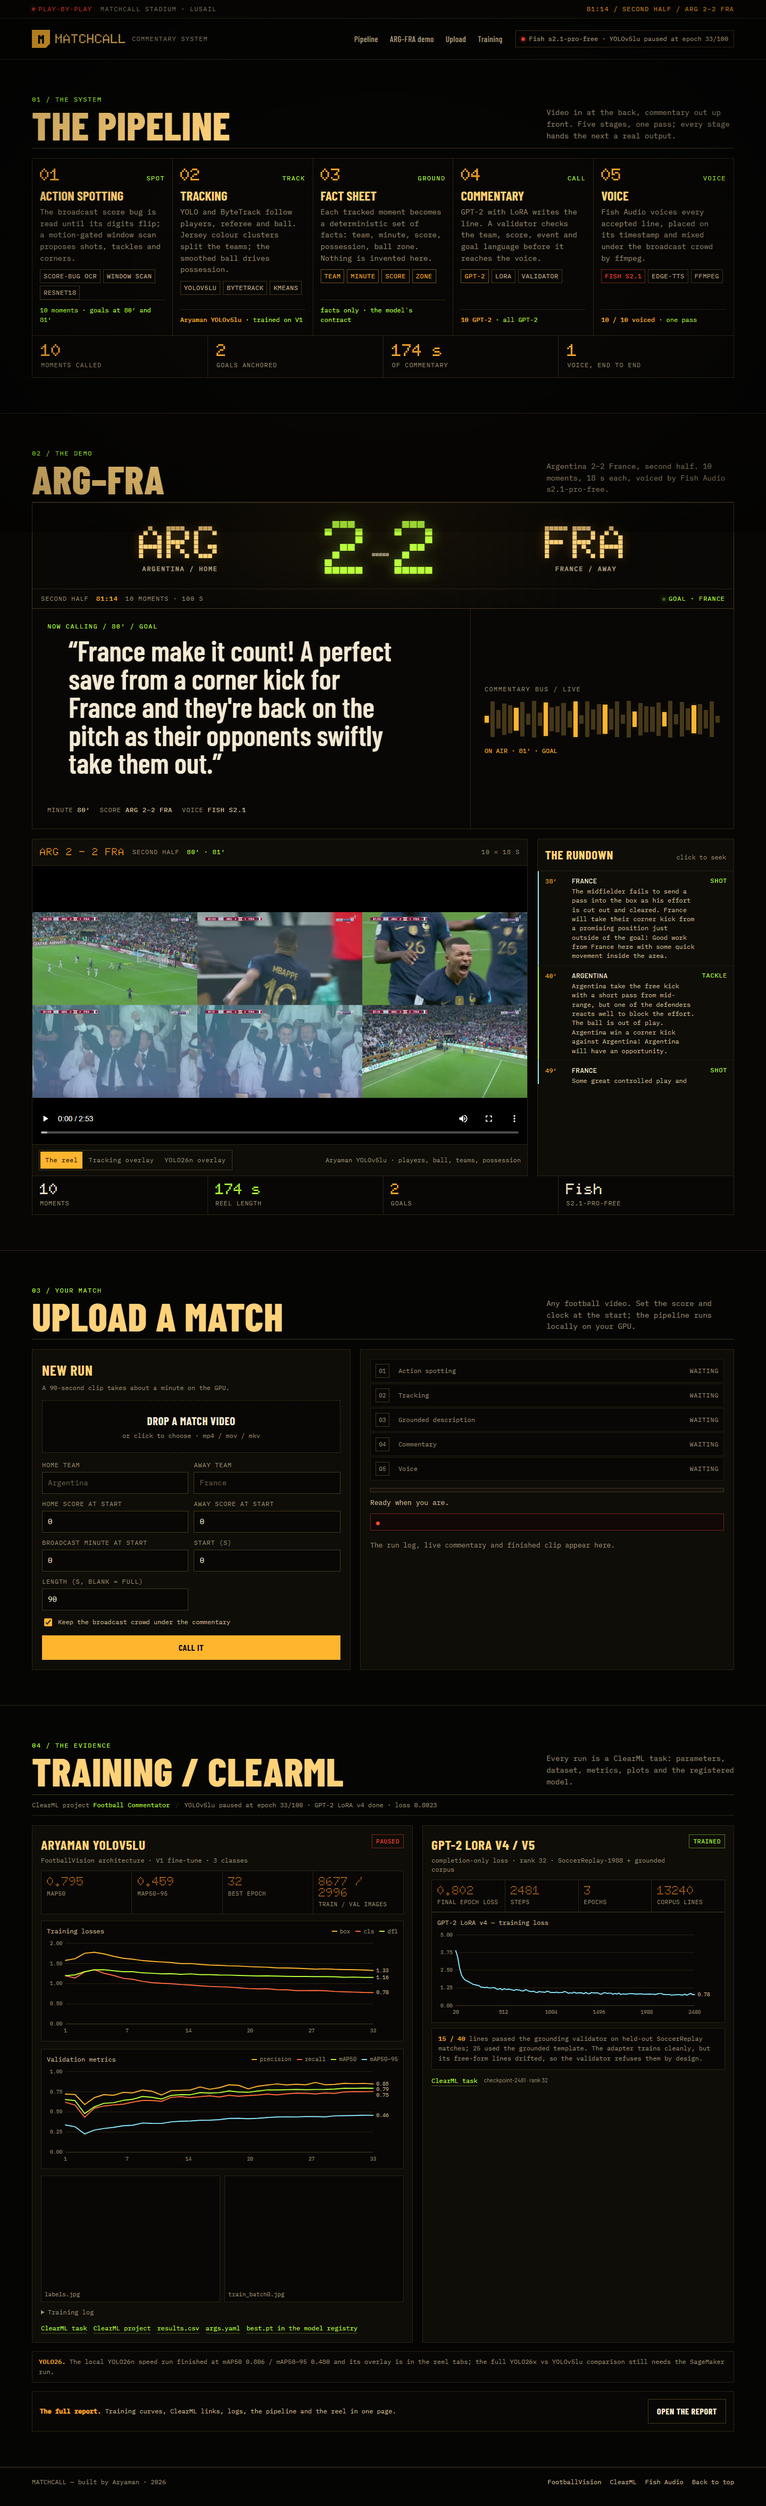
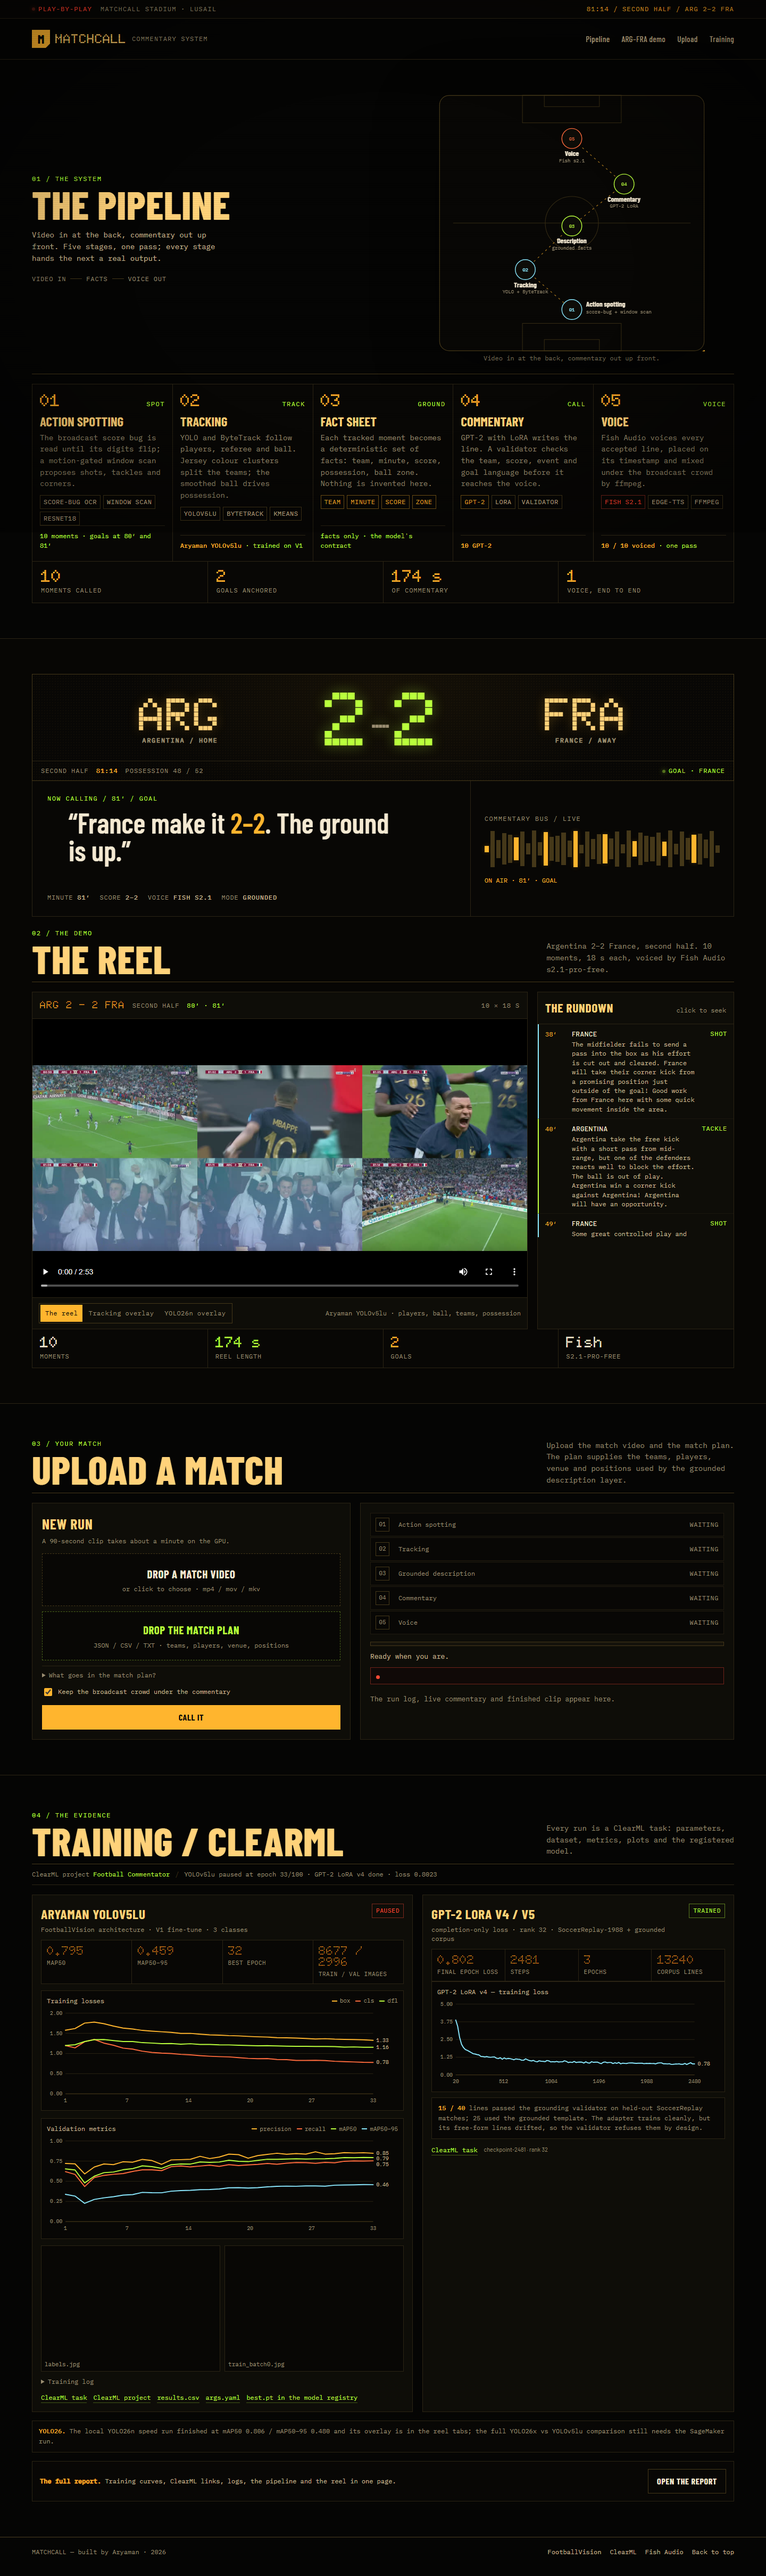
Add the pre-demo match board, formation map, and match-plan upload
Show the static 81-minute scoreboard/call before the reel, add the original pitch formation to the pipeline, remove the training status pill, and replace manual match fields with a match-plan document drop that parses teams, venue, score, minute and player/position counts.

diff --git a/app/static/index.html b/app/static/index.html
@@ -9,7 +9,7 @@
 <link rel="preconnect" href="https://fonts.googleapis.com">
 <link rel="preconnect" href="https://fonts.gstatic.com" crossorigin>
 <link href="https://fonts.googleapis.com/css2?family=Doto:wght@400;700;900&family=Barlow+Condensed:wght@500;600;700;800&family=Barlow:wght@400;500;600&family=IBM+Plex+Mono:wght@400;500&display=swap" rel="stylesheet">
-<link rel="stylesheet" href="/app.css?v=20261030b">
+<link rel="stylesheet" href="/app.css?v=20261030e">
 </head>
 <body>
 
@@ -34,10 +34,6 @@
       <a href="#call">Upload</a>
       <a href="#training">Training</a>
     </nav>
-    <span class="status-pill">
-      <span class="dot live" id="statusDot"></span>
-      <span id="statusText">Fish s2.1-pro-free</span>
-    </span>
   </div>
 </header>
 
@@ -46,12 +42,67 @@
   <!-- 01 · PIPELINE -->
   <section class="section pipeline" id="pipeline">
     <div class="wrap">
-      <div class="section-head">
-        <div>
+      <div class="pipeline-hero">
+        <div class="pipeline-copy">
           <div class="section-tag">01 / The system</div>
           <h1 class="led-title">THE PIPELINE</h1>
+          <p class="pipeline-lede">Video in at the back, commentary out up front. Five stages, one pass; every stage hands the next a real output.</p>
+          <div class="pipeline-key"><span>video in</span><i></i><span>facts</span><i></i><span>voice out</span></div>
         </div>
-        <p>Video in at the back, commentary out up front. Five stages, one pass; every stage hands the next a real output.</p>
+        <div class="pitch-wrap">
+          <svg class="pitch" viewBox="0 0 560 540" role="img" aria-labelledby="pitchTitle">
+            <title id="pitchTitle">The five-stage pipeline drawn as a football formation: action spotting, tracking, description, commentary and voice.</title>
+            <rect class="pitch-bg" x="1.5" y="1.5" width="557" height="537" rx="20"/>
+            <g class="pitch-line" aria-hidden="true">
+              <line x1="30" y1="270" x2="530" y2="270"/>
+              <circle cx="280" cy="270" r="56"/>
+              <rect x="176" y="1" width="208" height="58"/>
+              <rect x="222" y="1" width="116" height="24"/>
+              <rect x="176" y="481" width="208" height="58"/>
+              <rect x="222" y="515" width="116" height="24"/>
+            </g>
+            <circle class="pitch-dot" cx="280" cy="270" r="2.5" aria-hidden="true"/>
+            <path id="passPath" class="pass-line" d="M280 452 L182 368 L280 276 L390 188 L280 92" aria-hidden="true"/>
+
+            <g class="node">
+              <circle class="node-badge" cx="280" cy="452" r="21" stroke="var(--sky)"/>
+              <text class="node-num" x="280" y="452" fill="var(--sky)">01</text>
+              <text class="node-name start" x="310" y="446">Action spotting</text>
+              <text class="node-model start" x="310" y="460">score-bug + window scan</text>
+            </g>
+            <g class="node">
+              <circle class="node-badge" cx="182" cy="368" r="21" stroke="var(--sky)"/>
+              <text class="node-num" x="182" y="368" fill="var(--sky)">02</text>
+              <text class="node-name" x="182" y="405">Tracking</text>
+              <text class="node-model" x="182" y="418">YOLO + ByteTrack</text>
+            </g>
+            <g class="node">
+              <circle class="node-badge" cx="280" cy="276" r="21" stroke="var(--lime)"/>
+              <text class="node-num" x="280" y="276" fill="var(--lime)">03</text>
+              <text class="node-name" x="280" y="313">Description</text>
+              <text class="node-model" x="280" y="326">grounded facts</text>
+            </g>
+            <g class="node">
+              <circle class="node-badge" cx="390" cy="188" r="21" stroke="var(--lime)"/>
+              <text class="node-num" x="390" y="188" fill="var(--lime)">04</text>
+              <text class="node-name" x="390" y="225">Commentary</text>
+              <text class="node-model" x="390" y="238">GPT-2 LoRA</text>
+            </g>
+            <g class="node">
+              <circle class="node-badge" cx="280" cy="92" r="21" stroke="var(--coral)"/>
+              <text class="node-num" x="280" y="92" fill="var(--coral)">05</text>
+              <text class="node-name" x="280" y="129">Voice</text>
+              <text class="node-model" x="280" y="142">Fish s2.1</text>
+            </g>
+
+            <circle class="ball" r="5.5" cx="280" cy="452">
+              <animateMotion dur="3.4s" begin="0.8s" fill="freeze" calcMode="linear">
+                <mpath href="#passPath"/>
+              </animateMotion>
+            </circle>
+          </svg>
+          <p class="pitch-caption">Video in at the back, commentary out up front.</p>
+        </div>
       </div>
 
       <div class="pipeline-board">
@@ -104,14 +155,6 @@
   <!-- 02 · DEMO -->
   <section class="section demo" id="reel">
     <div class="wrap">
-      <div class="section-head">
-        <div>
-          <div class="section-tag">02 / The demo</div>
-          <h2 class="led-title">ARG–FRA</h2>
-        </div>
-        <p id="reelSub">Argentina 2–2 France, second half. Ten moments, ten seconds each, voiced by Fish Audio.</p>
-      </div>
-
       <div class="scoreboard" aria-label="Argentina 2, France 2">
         <div class="score-grid">
           <div class="team-name">ARG<small>ARGENTINA / HOME</small></div>
@@ -119,19 +162,20 @@
           <div class="team-name">FRA<small>FRANCE / AWAY</small></div>
         </div>
         <div class="board-row">
-          <span>SECOND HALF</span><b>81:14</b><span>10 MOMENTS · 100 S</span>
+          <span>SECOND HALF</span><b>81:14</b><span>POSSESSION 48 / 52</span>
           <span class="goal"><i></i>GOAL · FRANCE</span>
         </div>
       </div>
 
       <div class="call-strip">
         <div class="call-main">
-          <div class="call-tag" id="nowKind">Now calling / 81′ / goal</div>
-          <blockquote id="nowCall">“France make it <em>2–2</em>. The ground is up.”</blockquote>
+          <div class="call-tag">Now calling / 81′ / goal</div>
+          <blockquote>“France make it <em>2–2</em>. The ground is up.”</blockquote>
           <div class="call-meta">
-            <span>MINUTE <b id="nowMinute">81′</b></span>
-            <span>SCORE <b>ARG 2–2 FRA</b></span>
+            <span>MINUTE <b>81′</b></span>
+            <span>SCORE <b>2–2</b></span>
             <span>VOICE <b>FISH S2.1</b></span>
+            <span>MODE <b>GROUNDED</b></span>
           </div>
         </div>
         <div class="meter">
@@ -139,6 +183,14 @@
           <div class="waveform" id="waveform" aria-hidden="true"></div>
           <div class="meter-stamp">ON AIR · 81′ · GOAL</div>
         </div>
+      </div>
+
+      <div class="section-head demo-head">
+        <div>
+          <div class="section-tag">02 / The demo</div>
+          <h2 class="led-title">THE REEL</h2>
+        </div>
+        <p id="reelSub">Argentina 2–2 France, second half. Ten moments, ten seconds each, voiced by Fish Audio.</p>
       </div>
 
       <div class="demo-grid">
@@ -183,7 +235,7 @@
           <div class="section-tag">03 / Your match</div>
           <h2 class="led-title">UPLOAD A MATCH</h2>
         </div>
-        <p>Any football video. Set the score and clock at the start; the pipeline runs locally on your GPU.</p>
+        <p>Upload the match video and the match plan. The plan supplies the teams, players, venue and positions used by the grounded description layer.</p>
       </div>
 
       <div class="call-grid">
@@ -195,15 +247,36 @@
             <span>or click to choose · mp4 / mov / mkv</span>
           </div>
           <input type="file" id="file" accept="video/*" hidden>
-          <div class="field-grid">
-            <div class="field"><label for="home">Home team</label><input id="home" placeholder="Argentina"></div>
-            <div class="field"><label for="away">Away team</label><input id="away" placeholder="France"></div>
-            <div class="field"><label for="scoreHome">Home score at start</label><input id="scoreHome" type="number" min="0" step="1" value="0"></div>
-            <div class="field"><label for="scoreAway">Away score at start</label><input id="scoreAway" type="number" min="0" step="1" value="0"></div>
-            <div class="field"><label for="minuteOffset">Broadcast minute at start</label><input id="minuteOffset" type="number" min="0" step="0.01" value="0"></div>
-            <div class="field"><label for="t0">Start (s)</label><input id="t0" type="number" min="0" step="1" value="0"></div>
-            <div class="field"><label for="dur">Length (s, blank = full)</label><input id="dur" type="number" min="0" step="1" value="90"></div>
+
+          <div class="plan-drop" id="planDrop" role="button" tabindex="0" aria-label="Choose a match plan document">
+            <b>Drop the match plan</b>
+            <span>JSON / CSV / TXT · teams, players, venue, positions</span>
           </div>
+          <input type="file" id="plan" accept=".json,.csv,.txt,.md,.pdf,.docx" hidden>
+          <div class="plan-preview" id="planPreview" hidden></div>
+          <details class="plan-help">
+            <summary>What goes in the match plan?</summary>
+            <pre>{
+  "home": "Argentina",
+  "away": "France",
+  "venue": "Lusail Stadium",
+  "score_home": 2,
+  "score_away": 2,
+  "minute": 81,
+  "players": [
+    {"name": "player name", "team": "ARG", "position": "GK"}
+  ],
+  "positions": {"ARG": [], "FRA": []}
+}</pre>
+          </details>
+
+          <input type="hidden" id="home" value="Home">
+          <input type="hidden" id="away" value="Away">
+          <input type="hidden" id="scoreHome" value="0">
+          <input type="hidden" id="scoreAway" value="0">
+          <input type="hidden" id="minuteOffset" value="0">
+          <input type="hidden" id="t0" value="0">
+          <input type="hidden" id="dur" value="">
           <label class="check"><input type="checkbox" id="orig" checked> Keep the broadcast crowd under the commentary</label>
           <button class="btn btn-primary" id="go" type="submit">Call it</button>
         </form>
@@ -300,6 +373,6 @@
   </div>
 </footer>
 
-<script src="/app.js?v=20261030b" defer></script>
+<script src="/app.js?v=20261030e" defer></script>
 </body>
 </html>

diff --git a/app/static/app.css b/app/static/app.css
@@ -16,6 +16,7 @@
   --amber-soft: #ffd27a;
   --lime: #b9ff3d;
   --red: #ff4a35;
+  --coral: #ff6b3d;
   --sky: #8be9ff;
   --radius: 2px;
   --max: 1320px;
@@ -88,6 +89,24 @@ h1,h2,h3,p,dl,dd,figure { margin: 0; }
 
 /* ---------------------------------------------------------------- pipeline */
 .pipeline { background: var(--bg); }
+.pipeline-hero { display: grid; grid-template-columns: 1.05fr .95fr; gap: 34px; align-items: center; border-bottom: 1px solid var(--line-2); padding-bottom: 20px; }
+.pipeline-copy .led-title { margin-top: 2px; }
+.pipeline-lede { max-width: 44ch; margin-top: 14px; color: var(--ink-2); font-family: var(--mono); font-size: 14px; line-height: 1.6; }
+.pipeline-key { display: flex; align-items: center; gap: 8px; flex-wrap: wrap; margin-top: 18px; font-family: var(--mono); font-size: 12px; letter-spacing: .07em; text-transform: uppercase; color: var(--muted); }
+.pipeline-key i { width: 22px; height: 1px; background: var(--line-2); display: inline-block; }
+.pitch-wrap { position: relative; min-width: 0; }
+.pitch { width: 100%; height: auto; max-width: 500px; margin-inline: auto; filter: drop-shadow(0 24px 60px rgba(0,0,0,.45)); }
+.pitch-bg { fill: #080705; stroke: var(--line-2); stroke-width: 1.4; }
+.pitch-line { fill: none; stroke: var(--line-2); stroke-width: 1.2; opacity: .75; }
+.pitch-dot { fill: var(--line-2); }
+.pass-line { fill: none; stroke: var(--amber); stroke-width: 1.4; stroke-dasharray: 4 7; opacity: .65; }
+.node-badge { fill: #0e0d08; stroke-width: 1.6; }
+.node-num { font-family: var(--mono); font-size: 10px; text-anchor: middle; dominant-baseline: central; }
+.node-name { font-family: var(--cond); font-size: 15px; font-weight: 700; fill: var(--ink); text-anchor: middle; }
+.node-model { font-family: var(--mono); font-size: 10px; fill: var(--muted); text-anchor: middle; }
+.node-name.start, .node-model.start { text-anchor: start; }
+.ball { fill: var(--ink); stroke: var(--amber); stroke-width: 2.5; }
+.pitch-caption { text-align: center; color: var(--muted); font-family: var(--mono); font-size: 12px; margin-top: 4px; }
 .pipeline-board { display: grid; grid-template-columns: repeat(5, 1fr); gap: 1px; background: var(--line); border: 1px solid var(--line); margin-top: 18px; }
 .pstage { background: #080705; padding: 18px 14px 20px; min-height: 270px; position: relative; display: flex; flex-direction: column; }
 .pstage:hover { background: #0d0b07; }
@@ -122,6 +141,7 @@ h1,h2,h3,p,dl,dd,figure { margin: 0; }
 .board-row .goal i { display: inline-block; width: 6px; height: 6px; background: var(--lime); border-radius: 50%; margin-right: 6px; box-shadow: 0 0 8px var(--lime); animation: pulse 1.2s infinite; }
 
 .call-strip { display: grid; grid-template-columns: 1.25fr .75fr; border: 1px solid var(--line); border-top: 0; background: #080705; }
+.demo-head { margin-top: 22px; }
 .call-main { padding: 24px 28px 26px; border-right: 1px solid var(--line); }
 .call-tag { font-family: var(--mono); font-size: 12px; letter-spacing: .12em; text-transform: uppercase; color: var(--lime); }
 .call-main blockquote { font-family: var(--cond); font-size: clamp(1.8rem, 4vw, 3.3rem); line-height: 1.0; font-weight: 600; margin-top: 10px; max-width: 26ch; }
@@ -183,6 +203,16 @@ h1,h2,h3,p,dl,dd,figure { margin: 0; }
 #drop b { display: block; font-family: var(--cond); font-size: 1.3rem; text-transform: uppercase; color: var(--ink); letter-spacing: .03em; }
 #drop span { display: block; font-family: var(--mono); font-size: 12px; color: var(--muted); margin-top: 4px; }
 #drop .file { color: var(--lime); }
+.plan-drop { margin-top: 10px; border: 1px dashed rgba(185,255,61,.38); padding: 18px 16px; text-align: center; cursor: pointer; transition: .16s var(--ease); background: #080705; }
+.plan-drop:hover, .plan-drop.over { border-color: var(--lime); background: #0d1007; }
+.plan-drop b { display: block; font-family: var(--cond); font-size: 1.3rem; text-transform: uppercase; color: var(--lime); letter-spacing: .03em; }
+.plan-drop span { display: block; font-family: var(--mono); font-size: 12px; color: var(--muted); margin-top: 4px; }
+.plan-preview { margin-top: 10px; border: 1px solid rgba(185,255,61,.35); background: #0a0d06; padding: 9px 10px; font-family: var(--mono); font-size: 12px; line-height: 1.55; color: var(--ink-2); }
+.plan-preview b { color: var(--lime); font-weight: 500; }
+.plan-preview .plan-file { color: var(--amber); }
+.plan-help { margin-top: 10px; border-top: 1px solid var(--line); padding-top: 8px; }
+.plan-help summary { cursor: pointer; font-family: var(--mono); font-size: 12px; color: var(--muted); }
+.plan-help pre { margin: 8px 0 0; padding: 10px; border: 1px solid var(--line); background: #050403; color: var(--ink-2); font-family: var(--mono); font-size: 11px; line-height: 1.5; overflow-x: auto; }
 .field-grid { display: grid; grid-template-columns: 1fr 1fr; gap: 10px; margin-top: 14px; }
 .field { display: grid; gap: 4px; min-width: 0; }
 .field label { color: var(--muted); font-family: var(--mono); font-size: 12px; text-transform: uppercase; letter-spacing: .06em; }
@@ -291,6 +321,8 @@ h1,h2,h3,p,dl,dd,figure { margin: 0; }
 .footer a:hover { color: var(--lime); }
 
 @media (max-width: 1100px) {
+  .pipeline-hero { grid-template-columns: 1fr; }
+  .pitch { max-width: 420px; }
   .pipeline-board { grid-template-columns: repeat(2,1fr); }
   .pstage { min-height: 240px; }
   .demo-grid { grid-template-columns: 1fr; }

diff --git a/app/static/app.js b/app/static/app.js
@@ -326,8 +326,10 @@ function renderTraining(d) {
     : state === 'paused' ? `paused at epoch ${epoch}/${total}`
     : state === 'running' ? `epoch ${epoch}/${total}`
     : 'starting';
-  $('#statusText').textContent = `Fish s2.1-pro-free · YOLOv5lu ${label}`;
-  $('#statusDot').className = 'dot ' + (state === 'done' ? '' : running ? 'live' : 'warn');
+  const statusText = $('#statusText');
+  if (statusText) statusText.textContent = `Fish s2.1-pro-free · YOLOv5lu ${label}`;
+  const statusDot = $('#statusDot');
+  if (statusDot) statusDot.className = 'dot ' + (state === 'done' ? '' : running ? 'live' : 'warn');
   $('#trainStatus').textContent = `YOLOv5lu ${label} · GPT-2 LoRA v4 done${l.final_loss != null ? ' · loss ' + l.final_loss : ''}`;
 
   const badge = $('#yoloBadge');
@@ -481,8 +483,50 @@ function showFile(file) {
   drop.innerHTML = `<b>${esc(file.name)}</b><span class="file">${(file.size / 1e6).toFixed(1)} MB</span><span>click to change</span>`;
 }
 
+function showPlan(file) {
+  const box = $('#planPreview');
+  if (!file) { if (box) box.hidden = true; return; }
+  if (!box) return;
+  box.hidden = false;
+  const base = `<div class="plan-file">${esc(file.name)} · ${(file.size / 1e6).toFixed(1)} MB</div>`;
+  if (!/\.json$/i.test(file.name)) {
+    box.innerHTML = base + '<div>Plan attached. JSON is parsed automatically; other formats stay attached for the run.</div>';
+    return;
+  }
+  const reader = new FileReader();
+  reader.onload = () => {
+    try {
+      const p = JSON.parse(reader.result);
+      const home = p.home || (p.teams && p.teams.home) || 'Home';
+      const away = p.away || (p.teams && p.teams.away) || 'Away';
+      const venue = p.venue || p.location || 'venue not set';
+      const players = Array.isArray(p.players) ? p.players : [];
+      const positions = p.positions && typeof p.positions === 'object'
+        ? Object.keys(p.positions).length : 0;
+      const set = (id, value) => {
+        const el = $('#' + id);
+        if (el && value != null) el.value = value;
+      };
+      set('home', home);
+      set('away', away);
+      set('scoreHome', p.score_home ?? (p.score && p.score.home));
+      set('scoreAway', p.score_away ?? (p.score && p.score.away));
+      set('minuteOffset', p.minute ?? p.minute_offset);
+      set('t0', p.start ?? p.t0);
+      set('dur', p.length ?? p.dur);
+      box.innerHTML = base +
+        `<div><b>${esc(home)} vs ${esc(away)}</b> · ${esc(venue)}</div>` +
+        `<div>${players.length} player${players.length === 1 ? '' : 's'} · ${positions} position group${positions === 1 ? '' : 's'}</div>`;
+    } catch {
+      box.innerHTML = base + '<div>JSON could not be parsed; the plan is still attached.</div>';
+    }
+  };
+  reader.readAsText(file);
+}
+
 function setupUpload() {
   const drop = $('#drop'), fileIn = $('#file'), form = $('#callForm');
+  const planDrop = $('#planDrop'), planIn = $('#plan');
   const open = () => fileIn.click();
   drop.addEventListener('click', open);
   drop.addEventListener('keydown', e => { if (e.key === 'Enter' || e.key === ' ') { e.preventDefault(); open(); } });
@@ -493,6 +537,19 @@ function setupUpload() {
     if (e.dataTransfer.files.length) { fileIn.files = e.dataTransfer.files; showFile(fileIn.files[0]); }
   });
   fileIn.addEventListener('change', () => showFile(fileIn.files[0]));
+
+  if (planDrop && planIn) {
+    const openPlan = () => planIn.click();
+    planDrop.addEventListener('click', openPlan);
+    planDrop.addEventListener('keydown', e => { if (e.key === 'Enter' || e.key === ' ') { e.preventDefault(); openPlan(); } });
+    planDrop.addEventListener('dragover', e => { e.preventDefault(); planDrop.classList.add('over'); });
+    planDrop.addEventListener('dragleave', () => planDrop.classList.remove('over'));
+    planDrop.addEventListener('drop', e => {
+      e.preventDefault(); planDrop.classList.remove('over');
+      if (e.dataTransfer.files.length) { planIn.files = e.dataTransfer.files; showPlan(planIn.files[0]); }
+    });
+    planIn.addEventListener('change', () => showPlan(planIn.files[0]));
+  }
 
   form.addEventListener('submit', async e => {
     e.preventDefault();
@@ -508,6 +565,7 @@ function setupUpload() {
     fd.append('score_home', $('#scoreHome').value || '0');
     fd.append('score_away', $('#scoreAway').value || '0');
     fd.append('minute_offset', $('#minuteOffset').value || '0');
+    if (planIn && planIn.files.length) fd.append('plan', planIn.files[0]);
 
     stopLive();
     if (localUrl) URL.revokeObjectURL(localUrl);
